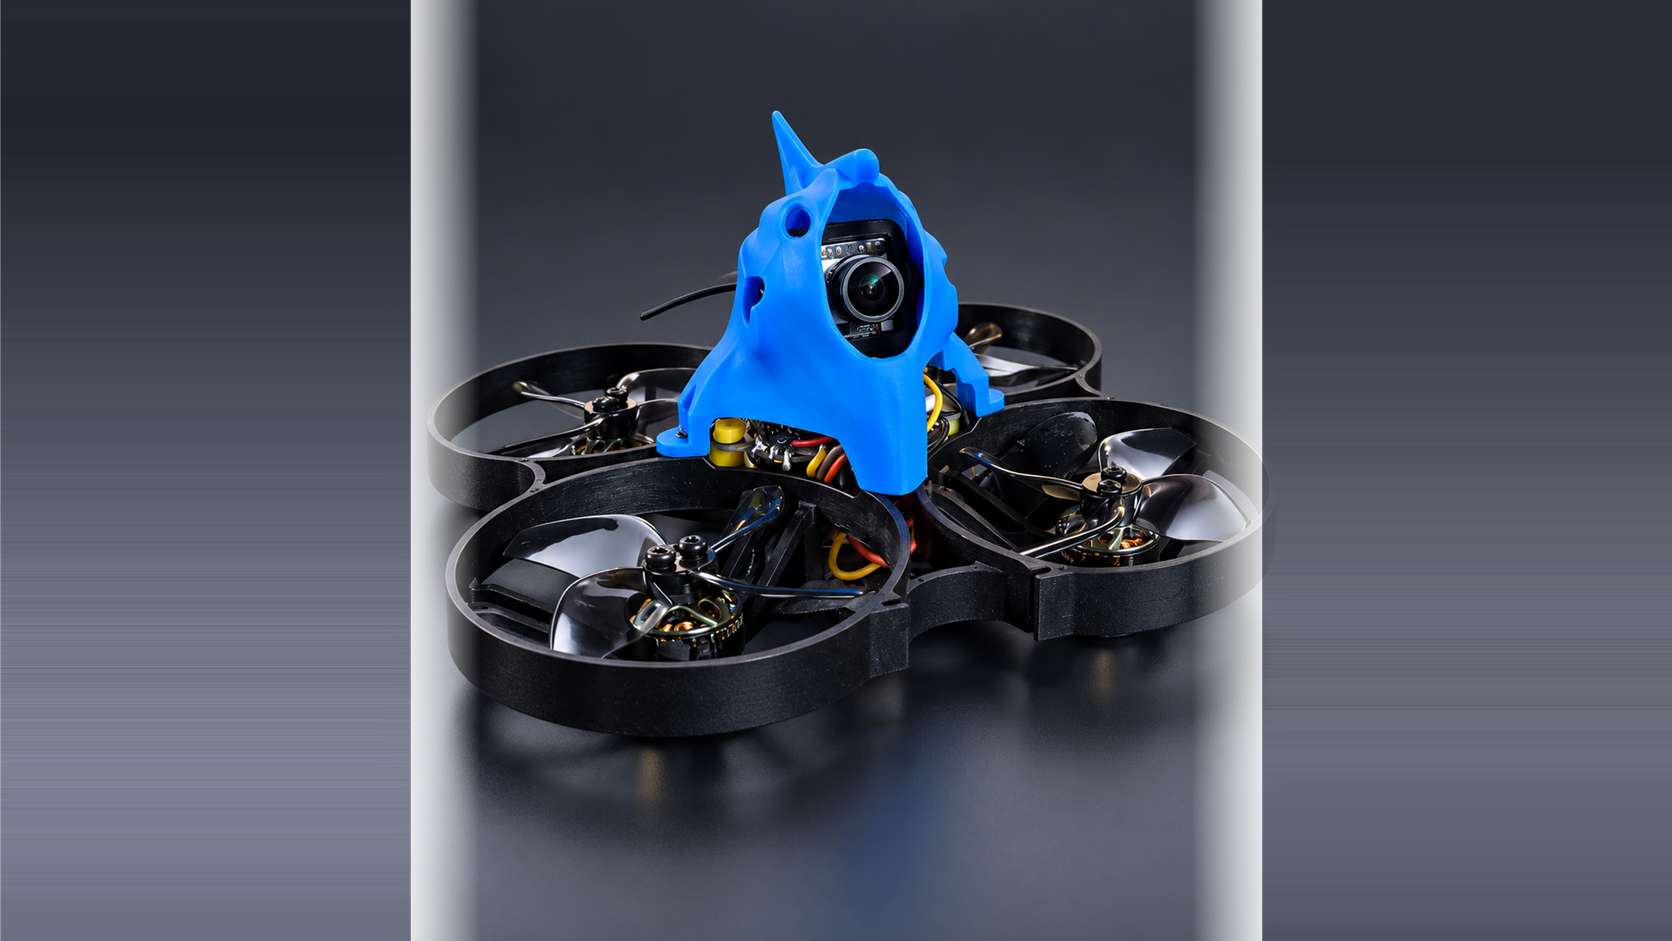
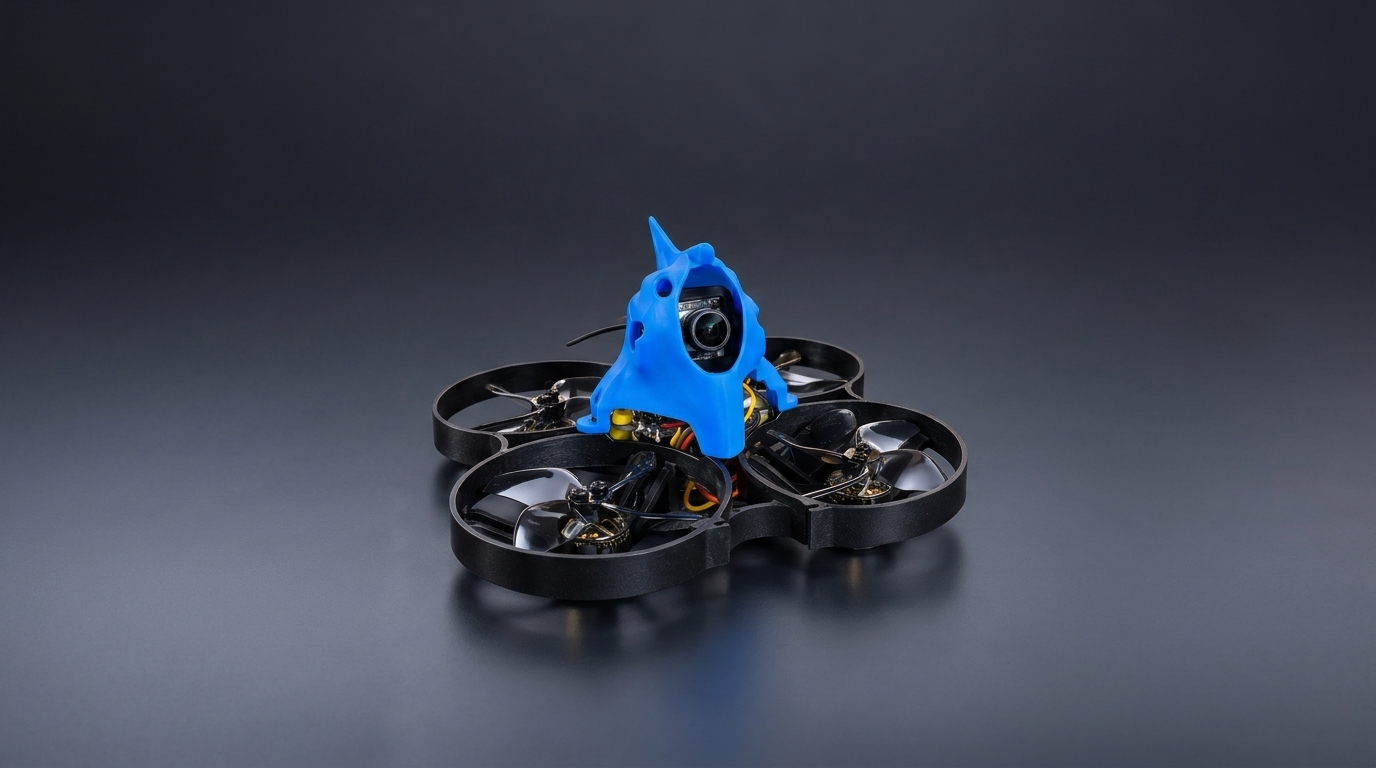
changes in the images to improve

Changed region(s): [[0.0, 0.0, 0.7812, 1.0], [0.875, 0.4062, 0.9062, 0.4688], [0.9688, 0.25, 1.0, 0.2812]]

diff --git a/src/components/fleet-section.tsx b/src/components/fleet-section.tsx
@@ -23,7 +23,8 @@ export interface DronePlatform {
   specs: DroneSpec[];
   fit?: 'cover' | 'contain';
   objectPosition?: string;
-  useDualLayer?: boolean;
+  imageScale?: number;
+  useBgBlur?: boolean;
 }
 
 const FLEET_CATEGORIES = ['Attack', 'Counter-UAV', 'Logistics', 'Training'] as const;
@@ -63,7 +64,7 @@ const FLEET_DATA: DronePlatform[] = [
       { label: 'SPEED', value: '180 km/h' },
     ],
   },
-  {
+  { 
     id: 'fiber-optic-drone',
     number: '07',
     name: 'Fibre Optic Drone',
@@ -97,7 +98,9 @@ const FLEET_DATA: DronePlatform[] = [
       { label: 'INTERCEPT', value: 'AUTONOMOUS' },
     ],
     fit: 'cover',
-    objectPosition: 'center 22%',
+    objectPosition: 'center 18%',
+    imageScale: 0.88,
+    useBgBlur: true,
   },
 
   // ── Logistics Category ──
@@ -139,7 +142,7 @@ const FLEET_DATA: DronePlatform[] = [
       { label: 'WEIGHT', value: '420 g' },
     ],
     fit: 'cover',
-    objectPosition: 'center 32%',
+    objectPosition: 'center 38%',
   },
 ];
 
@@ -236,14 +239,15 @@ function BentoCard({
       }
       data-testid={`card-fleet-${platform.id}`}
     >
-      {/* Background Image with Slow Zoom & Dual-Layer Framing */}
-      <div className={`bento-image-wrapper ${platform.fit === 'contain' ? 'is-contained' : ''}`}>
-        {platform.useDualLayer && (
+      {/* Background Image with Slow Zoom */}
+      <div className="bento-image-wrapper">
+        {platform.useBgBlur && (
           <img
             src={platform.image}
             alt=""
             aria-hidden="true"
-            className="bento-image-backdrop"
+            className="bento-image-bg-blur"
+            style={platform.objectPosition ? { objectPosition: platform.objectPosition } : undefined}
           />
         )}
         <img
@@ -252,8 +256,11 @@ function BentoCard({
           loading="lazy"
           width="1584"
           height="993"
-          className={`bento-image ${platform.fit === 'contain' ? 'fit-contain' : ''}`}
-          style={platform.objectPosition ? { objectPosition: platform.objectPosition } : undefined}
+          className="bento-image"
+          style={{
+            ...(platform.objectPosition ? { objectPosition: platform.objectPosition } : {}),
+            ...(platform.imageScale ? { transform: `scale(${isHovered ? platform.imageScale * 1.04 : platform.imageScale})` } : {}),
+          }}
         />
         <div className="bento-gradient" aria-hidden="true" />
       </div>

diff --git a/src/index.css b/src/index.css
@@ -923,56 +923,30 @@
   transform: scale(1.08);
 }
 
-/* Contained / Dual-Layer Product Framing for Portrait Assets */
-.bento-image-backdrop {
+.bento-image-bg-blur {
   position: absolute;
-  inset: -15%;
-  width: 130%;
-  height: 130%;
+  inset: -10%;
+  width: 120%;
+  height: 120%;
   object-fit: cover;
-  object-position: center;
-  filter: blur(36px) brightness(0.28) saturate(1.2);
-  opacity: 0.75;
+  object-position: center 20%;
+  filter: blur(20px) brightness(0.4);
+  opacity: 0.85;
   pointer-events: none;
   z-index: 0;
-}
-
-.bento-image.fit-contain {
-  position: relative;
-  z-index: 1;
-  object-fit: contain;
-  padding: 34px 44px 105px 44px;
-  filter: drop-shadow(0 16px 32px rgba(0, 0, 0, 0.75));
-}
-
-.bento-card:hover .bento-image.fit-contain {
-  transform: scale(1.035);
-}
-
-.bento-image-wrapper.is-contained .bento-gradient {
-  background: linear-gradient(
-    180deg,
-    rgba(5, 8, 13, 0.05) 0%,
-    rgba(5, 8, 13, 0.15) 35%,
-    rgba(5, 8, 13, 0.72) 72%,
-    rgba(5, 8, 13, 0.96) 100%
-  );
-}
-
-@media (max-width: 640px) {
-  .bento-image.fit-contain {
-    padding: 38px 20px 125px 20px;
-  }
 }
 
 .bento-gradient {
   position: absolute;
   inset: 0;
+  pointer-events: none;
   background: linear-gradient(
     180deg,
-    rgba(5, 8, 13, 0.2) 0%,
-    rgba(5, 8, 13, 0.45) 40%,
-    rgba(5, 8, 13, 0.95) 100%
+    rgba(5, 8, 13, 0.1) 0%,
+    rgba(5, 8, 13, 0.05) 20%,
+    rgba(5, 8, 13, 0.15) 50%,
+    rgba(5, 8, 13, 0.72) 75%,
+    rgba(5, 8, 13, 0.96) 100%
   );
 }
 
